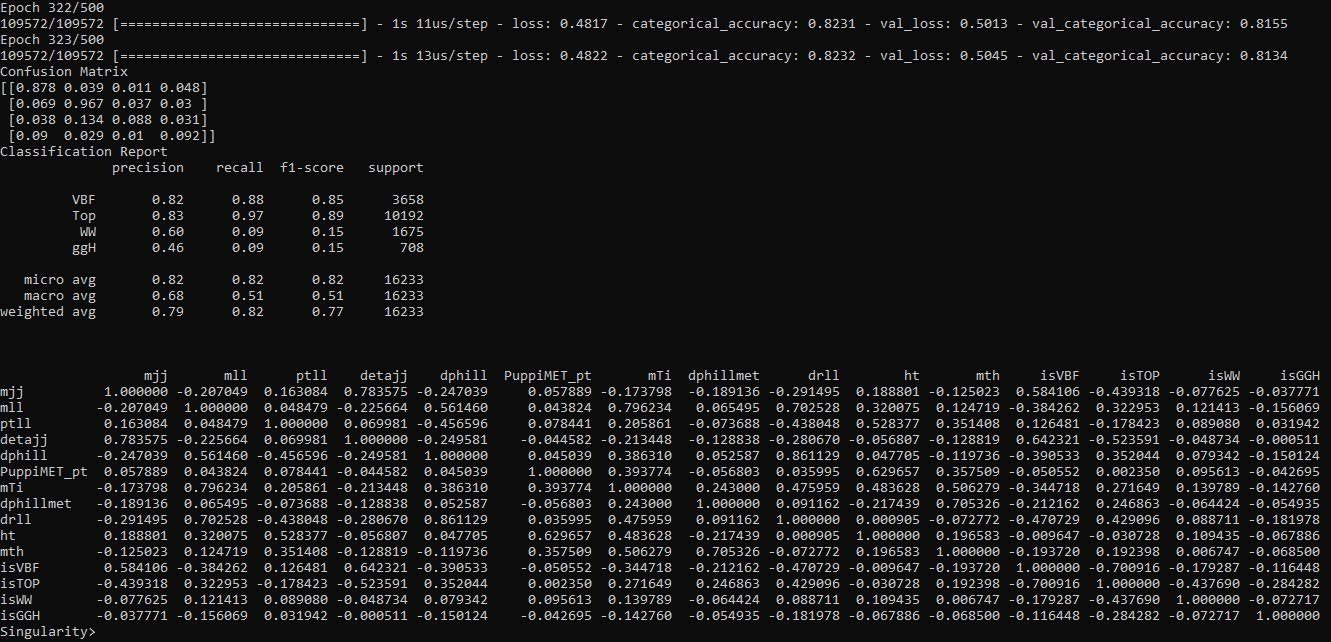
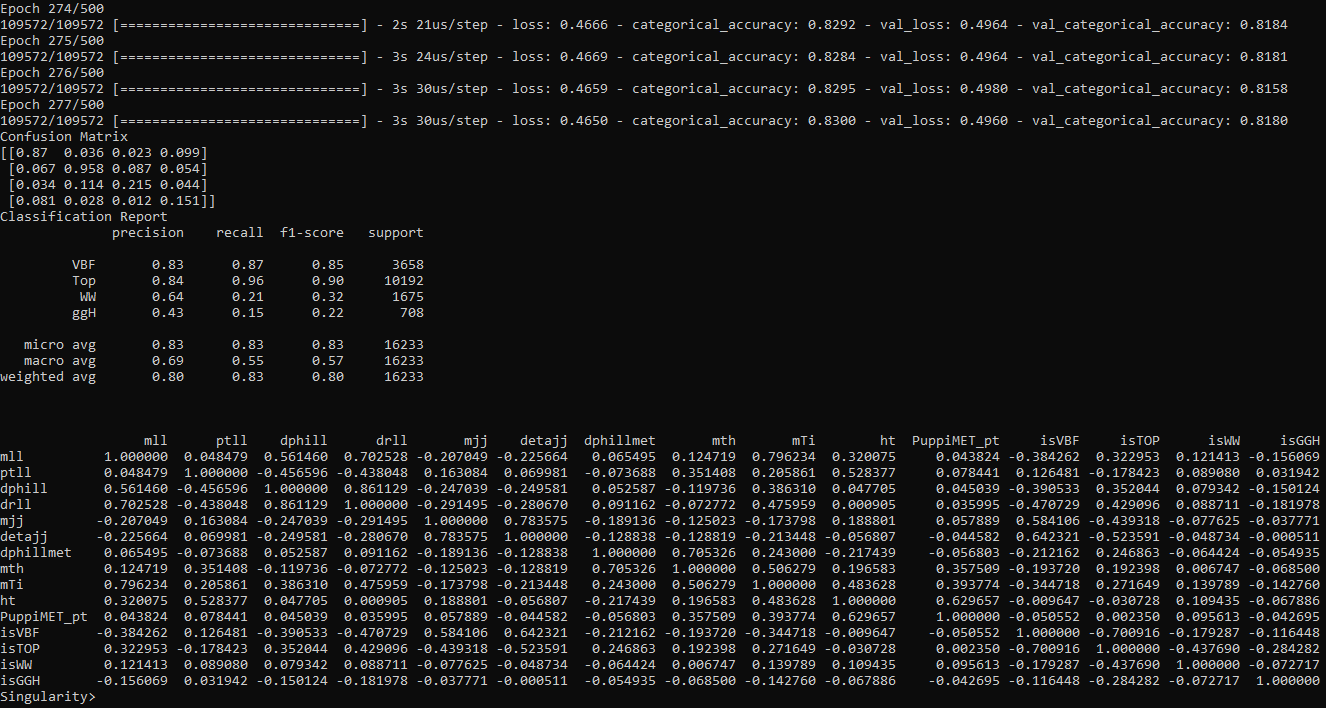
Add files via upload

Changed region(s): [[0.0, 0.0, 1.0, 0.9969], [0.2783, 0.2492, 0.3092, 0.2804]]

diff --git a/DNN/loader.py b/DNN/loader.py
@@ -12,7 +12,33 @@ dir18 = '/eos/cms/store/group/phys_higgs/cmshww/amassiro/HWWNano/Summer20UL18_10
 #-------------------------------------------------------------------------------
 def load_dataset_vbf (max_entries = -1) :
 
-  _branches = ["mjj", "mll", "ptll", "detajj", "dphill", "PuppiMET_pt", "mTi", "dphillmet", "drll", "ht", "mth", "Lepton_pt[0]", "Lepton_pt[1]", "Lepton_eta[0]", "Lepton_eta[1]", "CleanJet_pt[0]", "CleanJet_pt[1]", "CleanJet_eta[0]", "CleanJet_eta[1]"]
+  _branches = [
+    "mll",
+    "ptll",
+    "dphill",
+    "drll",
+    "mjj",
+    "detajj",
+    "dphillmet",
+    "mth",
+    "mTi",
+    "ht",
+    "PuppiMET_pt",
+    "Lepton_pt[0]",
+    "Lepton_pt[1]",
+    "Lepton_eta[0]",
+    "Lepton_eta[1]",
+    "CleanJet_pt[0]",
+    "CleanJet_pt[1]",
+    "CleanJet_eta[0]",
+    "CleanJet_eta[1]",
+    "mlj(Lepton_pt[0], Lepton_eta[0], Lepton_phi[0], CleanJet_pt[0], CleanJet_eta[0], CleanJet_phi[0])",
+    "mlj(Lepton_pt[0], Lepton_eta[0], Lepton_phi[0], CleanJet_pt[1], CleanJet_eta[1], CleanJet_phi[1])",
+    "mlj(Lepton_pt[1], Lepton_eta[1], Lepton_phi[1], CleanJet_pt[0], CleanJet_eta[0], CleanJet_phi[0])",
+    "mlj(Lepton_pt[1], Lepton_eta[1], Lepton_phi[1], CleanJet_pt[1], CleanJet_eta[1], CleanJet_phi[1])"
+  ]
+
+  ROOT.gROOT.ProcessLineSync(".L mlj.C+")
 
   chain = ROOT.TChain('Events')
 
@@ -35,7 +61,33 @@ def load_dataset_vbf (max_entries = -1) :
 #-------------------------------------------------------------------------------
 def load_dataset_top (max_entries = -1) :
 
-  _branches = ["mjj", "mll", "ptll", "detajj", "dphill", "PuppiMET_pt", "mTi", "dphillmet", "drll", "ht", "mth", "Lepton_pt[0]", "Lepton_pt[1]", "Lepton_eta[0]", "Lepton_eta[1]", "CleanJet_pt[0]", "CleanJet_pt[1]", "CleanJet_eta[0]", "CleanJet_eta[1]"]
+  _branches = [
+    "mll",
+    "ptll",
+    "dphill",
+    "drll",
+    "mjj",
+    "detajj",
+    "dphillmet",
+    "mth",
+    "mTi",
+    "ht",
+    "PuppiMET_pt",
+    "Lepton_pt[0]",
+    "Lepton_pt[1]",
+    "Lepton_eta[0]",
+    "Lepton_eta[1]",
+    "CleanJet_pt[0]",
+    "CleanJet_pt[1]",
+    "CleanJet_eta[0]",
+    "CleanJet_eta[1]",
+    "mlj(Lepton_pt[0], Lepton_eta[0], Lepton_phi[0], CleanJet_pt[0], CleanJet_eta[0], CleanJet_phi[0])",
+    "mlj(Lepton_pt[0], Lepton_eta[0], Lepton_phi[0], CleanJet_pt[1], CleanJet_eta[1], CleanJet_phi[1])",
+    "mlj(Lepton_pt[1], Lepton_eta[1], Lepton_phi[1], CleanJet_pt[0], CleanJet_eta[0], CleanJet_phi[0])",
+    "mlj(Lepton_pt[1], Lepton_eta[1], Lepton_phi[1], CleanJet_pt[1], CleanJet_eta[1], CleanJet_phi[1])"
+  ]
+
+  ROOT.gROOT.ProcessLineSync(".L mlj.C+")
   
   chain = ROOT.TChain('Events')
 
@@ -58,7 +110,33 @@ def load_dataset_top (max_entries = -1) :
 #-------------------------------------------------------------------------------
 def load_dataset_ww (max_entries = -1) :
 
-  _branches = ["mjj", "mll", "ptll", "detajj", "dphill", "PuppiMET_pt", "mTi", "dphillmet", "drll", "ht", "mth", "Lepton_pt[0]", "Lepton_pt[1]", "Lepton_eta[0]", "Lepton_eta[1]", "CleanJet_pt[0]", "CleanJet_pt[1]", "CleanJet_eta[0]", "CleanJet_eta[1]"]
+  _branches = [
+    "mll",
+    "ptll",
+    "dphill",
+    "drll",
+    "mjj",
+    "detajj",
+    "dphillmet",
+    "mth",
+    "mTi",
+    "ht",
+    "PuppiMET_pt",
+    "Lepton_pt[0]",
+    "Lepton_pt[1]",
+    "Lepton_eta[0]",
+    "Lepton_eta[1]",
+    "CleanJet_pt[0]",
+    "CleanJet_pt[1]",
+    "CleanJet_eta[0]",
+    "CleanJet_eta[1]",
+    "mlj(Lepton_pt[0], Lepton_eta[0], Lepton_phi[0], CleanJet_pt[0], CleanJet_eta[0], CleanJet_phi[0])",
+    "mlj(Lepton_pt[0], Lepton_eta[0], Lepton_phi[0], CleanJet_pt[1], CleanJet_eta[1], CleanJet_phi[1])",
+    "mlj(Lepton_pt[1], Lepton_eta[1], Lepton_phi[1], CleanJet_pt[0], CleanJet_eta[0], CleanJet_phi[0])",
+    "mlj(Lepton_pt[1], Lepton_eta[1], Lepton_phi[1], CleanJet_pt[1], CleanJet_eta[1], CleanJet_phi[1])"
+  ]
+
+  ROOT.gROOT.ProcessLineSync(".L mlj.C+")
 
   chain = ROOT.TChain('Events')
   
@@ -81,7 +159,33 @@ def load_dataset_ww (max_entries = -1) :
 #-------------------------------------------------------------------------------
 def load_dataset_ggh (max_entries = -1) :
 
-  _branches = ["mjj", "mll", "ptll", "detajj", "dphill", "PuppiMET_pt", "mTi", "dphillmet", "drll", "ht", "mth", "Lepton_pt[0]", "Lepton_pt[1]", "Lepton_eta[0]", "Lepton_eta[1]", "CleanJet_pt[0]", "CleanJet_pt[1]", "CleanJet_eta[0]", "CleanJet_eta[1]"]
+  _branches = [
+    "mll",
+    "ptll",
+    "dphill",
+    "drll",
+    "mjj",
+    "detajj",
+    "dphillmet",
+    "mth",
+    "mTi",
+    "ht",
+    "PuppiMET_pt",
+    "Lepton_pt[0]",
+    "Lepton_pt[1]",
+    "Lepton_eta[0]",
+    "Lepton_eta[1]",
+    "CleanJet_pt[0]",
+    "CleanJet_pt[1]",
+    "CleanJet_eta[0]",
+    "CleanJet_eta[1]",
+    "mlj(Lepton_pt[0], Lepton_eta[0], Lepton_phi[0], CleanJet_pt[0], CleanJet_eta[0], CleanJet_phi[0])",
+    "mlj(Lepton_pt[0], Lepton_eta[0], Lepton_phi[0], CleanJet_pt[1], CleanJet_eta[1], CleanJet_phi[1])",
+    "mlj(Lepton_pt[1], Lepton_eta[1], Lepton_phi[1], CleanJet_pt[0], CleanJet_eta[0], CleanJet_phi[0])",
+    "mlj(Lepton_pt[1], Lepton_eta[1], Lepton_phi[1], CleanJet_pt[1], CleanJet_eta[1], CleanJet_phi[1])"
+  ]
+
+  ROOT.gROOT.ProcessLineSync(".L mlj.C+")
 
   chain = ROOT.TChain('Events')  
 

diff --git a/DNN/keras_test.py b/DNN/keras_test.py
@@ -25,7 +25,31 @@ from sklearn.preprocessing import StandardScaler
 from sklearn.metrics import roc_curve, auc
 
 
-VARS = [ "mjj", "mll", "ptll", "detajj", "dphill", "PuppiMET_pt", "mTi", "dphillmet", "drll", "ht", "mth", "Lepton_pt[0]", "Lepton_pt[1]", "Lepton_eta[0]", "Lepton_eta[1]", "CleanJet_pt[0]", "CleanJet_pt[1]", "CleanJet_eta[0]", "CleanJet_eta[1]"]
+VARS = [
+    "mll",
+    "ptll",
+    "dphill",
+    "drll",
+    "mjj",
+    "detajj",
+    "dphillmet",
+    "mth",
+    "mTi",
+    "ht",
+    "PuppiMET_pt",
+    "Lepton_pt[0]",
+    "Lepton_pt[1]",
+    "Lepton_eta[0]",
+    "Lepton_eta[1]",
+    "CleanJet_pt[0]",
+    "CleanJet_pt[1]",
+    "CleanJet_eta[0]",
+    "CleanJet_eta[1]",
+    "mlj(Lepton_pt[0], Lepton_eta[0], Lepton_phi[0], CleanJet_pt[0], CleanJet_eta[0], CleanJet_phi[0])",
+    "mlj(Lepton_pt[0], Lepton_eta[0], Lepton_phi[0], CleanJet_pt[1], CleanJet_eta[1], CleanJet_phi[1])",
+    "mlj(Lepton_pt[1], Lepton_eta[1], Lepton_phi[1], CleanJet_pt[0], CleanJet_eta[0], CleanJet_phi[0])",
+    "mlj(Lepton_pt[1], Lepton_eta[1], Lepton_phi[1], CleanJet_pt[1], CleanJet_eta[1], CleanJet_phi[1])"
+]
 
 NDIM = len(VARS)
 

diff --git a/DNN/mlj.C b/DNN/mlj.C
@@ -1,0 +1,18 @@
+#include "TLorentzVector.h"
+
+
+float mlj(float lepton_pt,
+	  float lepton_eta,
+	  float lepton_phi,
+	  float jet_pt,
+	  float jet_eta,
+	  float jet_phi)
+{
+  TLorentzVector lepton;
+  TLorentzVector jet;
+
+  lepton.SetPtEtaPhiM(lepton_pt, lepton_eta, lepton_phi, 0.);
+  jet.SetPtEtaPhiM(jet_pt, jet_eta, jet_phi, 0.);
+
+  return (lepton+jet).M();
+}
